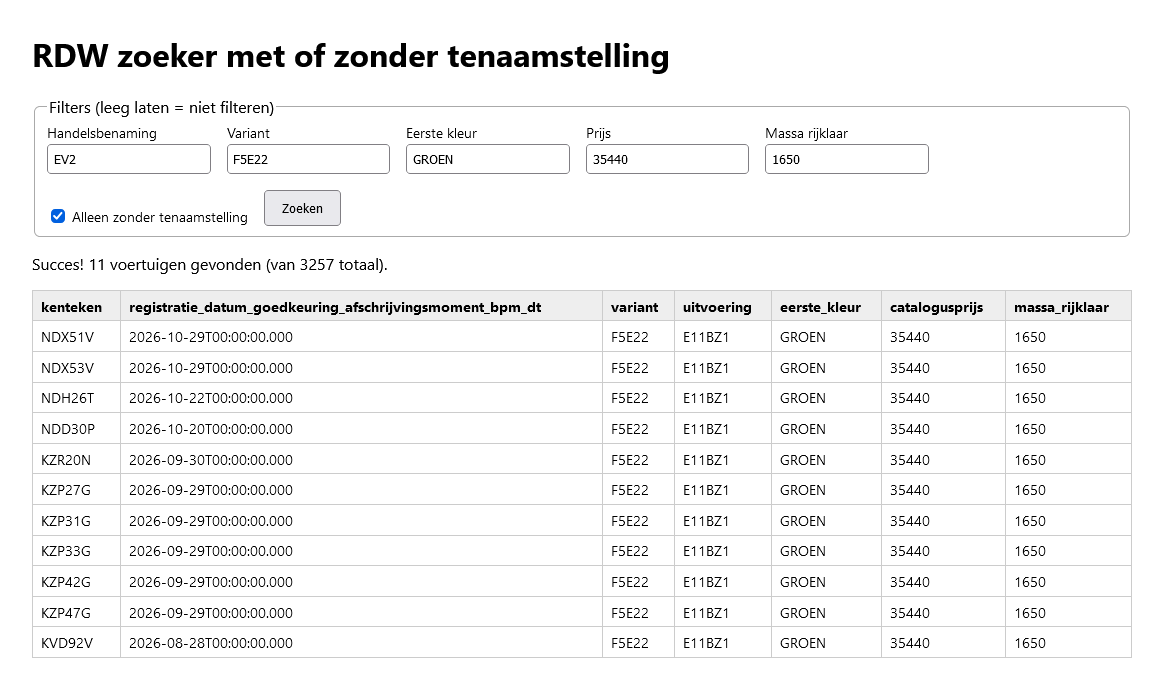
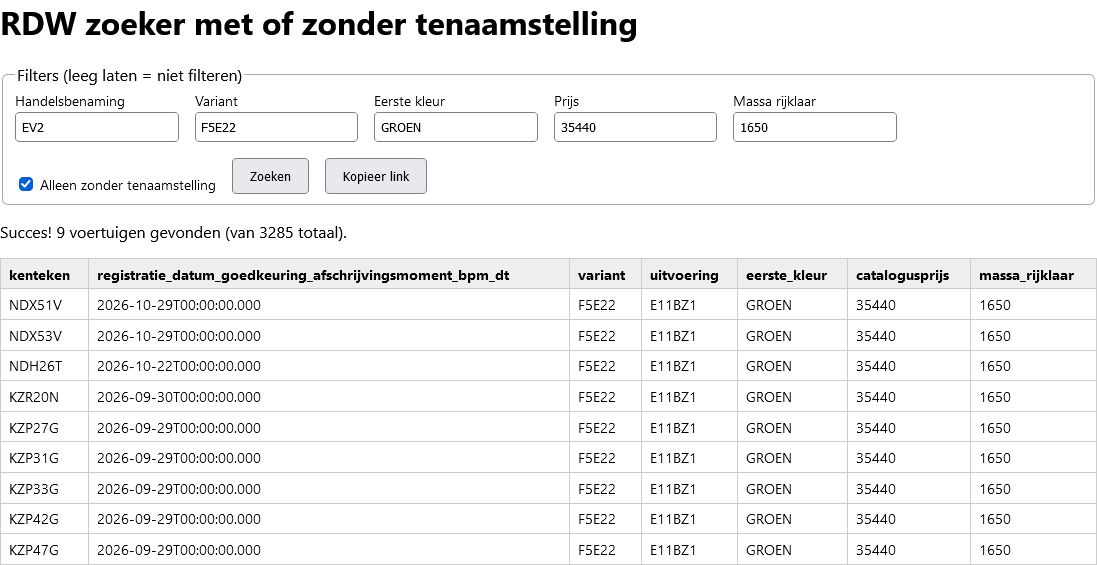
Maak het mogelijk om de defaults via URL parameters te overrulen

Changed region(s): [[0.0, 0.0, 1.0, 1.0], [0.9918, 0.1204, 1.0, 0.3611]]

diff --git a/rdw-zoeker.html b/rdw-zoeker.html
@@ -28,8 +28,9 @@
   <label>Eerste kleur <input id="kleur" value="GROEN"></label>
   <label>Prijs <input id="prijs" value="35440"></label>
   <label>Massa rijklaar <input id="massa_rijklaar" value="1650"></label>
-  <label><span><input type="checkbox" id="zonderNaam" checked> Alleen zonder tenaamstelling</span></label>
+  <label><span><input type="checkbox" id="zonderTenaamstelling" checked> Alleen zonder tenaamstelling</span></label>
   <button id="zoek">Zoeken</button>
+  <button id="kopieerLink" type="button">Kopieer link</button>
 </fieldset>
 
 <div id="status"></div>
@@ -84,7 +85,7 @@ async function zoek() {
   const kleur = document.getElementById("kleur").value.trim().toUpperCase();
   const prijs = document.getElementById("prijs").value.trim();
   const massa_rijklaar = document.getElementById("massa_rijklaar").value.trim();
-  const zonderNaam = document.getElementById("zonderNaam").checked;
+  const zonderTenaamstelling = document.getElementById("zonderTenaamstelling").checked;
 
   // Veilig quoten van de waarde voor de SoQL-query
   const quote = s => s.replace(/'/g, "''");
@@ -124,7 +125,7 @@ async function zoek() {
     (!variant || r.variant === variant) &&
     (!kleur || (r.eerste_kleur || "").toUpperCase() === kleur) &&
     (!prijs || r.catalogusprijs === prijs) &&
-    (!zonderNaam || !r.datum_tenaamstelling) &&
+    (!zonderTenaamstelling || !r.datum_tenaamstelling) &&
     (!massa_rijklaar || r.massa_rijklaar == massa_rijklaar)
   );
 
@@ -150,6 +151,80 @@ async function zoek() {
 }
 
 document.getElementById("zoek").addEventListener("click", zoek);
+
+// --- URL-parameters: overrulen de defaults van alle invoervelden ---
+// Voorbeeld: ?variant=F5E22&kleur=GROEN&prijs=35440&massa_rijklaar=1650&zonderTenaamstelling=0&zoek=1
+// Parameternaam = id van het invoerveld (hoofdletterongevoelig).
+// Lege waarde (bv. ?prijs=) = veld leegmaken = niet filteren.
+// zoek=1 start direct de zoekopdracht.
+const JA = ["1", "true", "ja", "on", "yes", ""];
+
+function toepassenUrlParameters() {
+  const params = new URLSearchParams(location.search);
+  if ([...params.keys()].length === 0) return;
+
+  const waarden = new Map([...params].map(([k, v]) => [k.toLowerCase(), v]));
+
+  document.querySelectorAll("input[id], select[id], textarea[id]").forEach(el => {
+    const sleutel = el.id.toLowerCase();
+    if (!waarden.has(sleutel)) return;
+    const waarde = waarden.get(sleutel);
+    if (el.type === "checkbox") {
+      el.checked = JA.includes(waarde.toLowerCase());
+    } else {
+      el.value = waarde;
+    }
+  });
+
+  if (waarden.has("zoek") && JA.includes(waarden.get("zoek").toLowerCase())) {
+    zoek();
+  }
+}
+
+// --- Kopieer link: huidige filterwaarden als URL, incl. zoek=1 ---
+// Werkt voor zowel https://... als file:///... (location.origin is bij file: "null",
+// dus de basis-URL komt uit location.href zonder query en hash).
+function maakLink() {
+  const params = new URLSearchParams();
+  document.querySelectorAll("input[id]").forEach(el => {
+    params.set(el.id, el.type === "checkbox" ? (el.checked ? "1" : "0") : el.value.trim());
+  });
+  params.set("zoek", "1");
+  const basis = location.href.split(/[?#]/)[0];
+  return `${basis}?${params}`;
+}
+
+// Klembord: moderne API alleen in een secure context (https); bij file: valt het
+// terug op de oude execCommand-methode.
+async function kopieerNaarKlembord(tekst) {
+  if (navigator.clipboard && window.isSecureContext) {
+    try {
+      await navigator.clipboard.writeText(tekst);
+      return true;
+    } catch (e) { /* val terug op execCommand */ }
+  }
+  const ta = document.createElement("textarea");
+  ta.value = tekst;
+  ta.style.position = "fixed";
+  ta.style.opacity = "0";
+  document.body.appendChild(ta);
+  ta.select();
+  let ok = false;
+  try { ok = document.execCommand("copy"); } catch (e) { ok = false; }
+  ta.remove();
+  return ok;
+}
+
+document.getElementById("kopieerLink").addEventListener("click", async () => {
+  const link = maakLink();
+  if (await kopieerNaarKlembord(link)) {
+    setStatus("Link gekopieerd naar het klembord.");
+  } else {
+    setStatus(`Kopiëren niet gelukt, kopieer zelf: ${link}`, true);
+  }
+});
+
+toepassenUrlParameters();
 </script>
 </body>
 </html>

diff --git a/README.md b/README.md
@@ -29,5 +29,11 @@ Voorbeeld:
 
 
 Sla rdw-zoeker.html op in een html bestand met deze naam en dubbelklik op dit bestand. Eventueel kun je het script binnen het html bestand aanpassen, zodat deze met andere defaults begint.
+Daarnaast kun je de defaults overrulen via parameters in de URL, bijvoorbeeld:
 
-Je kunt het tool ook direct uitvoeren, [via deze link](https://zuinigerijder.github.io/rdw-zoeker/rdw-zoeker.html)
+````
+rdw-zoeker.html?handelsbenaming=EV2&variant=F5E22&kleur=GROEN&prijs=35440&massa_rijklaar=1650&zonderTenaamstelling=1&zoek=1
+````
+
+Je kunt het tool ook direct uitvoeren, [via deze link](https://zuinigerijder.github.io/rdw-zoeker/rdw-zoeker.html?handelsbenaming=EV2&variant=F5E22&kleur=GROEN&prijs=35440&massa_rijklaar=1650&zonderTenaamstelling=1&zoek=1)
+
